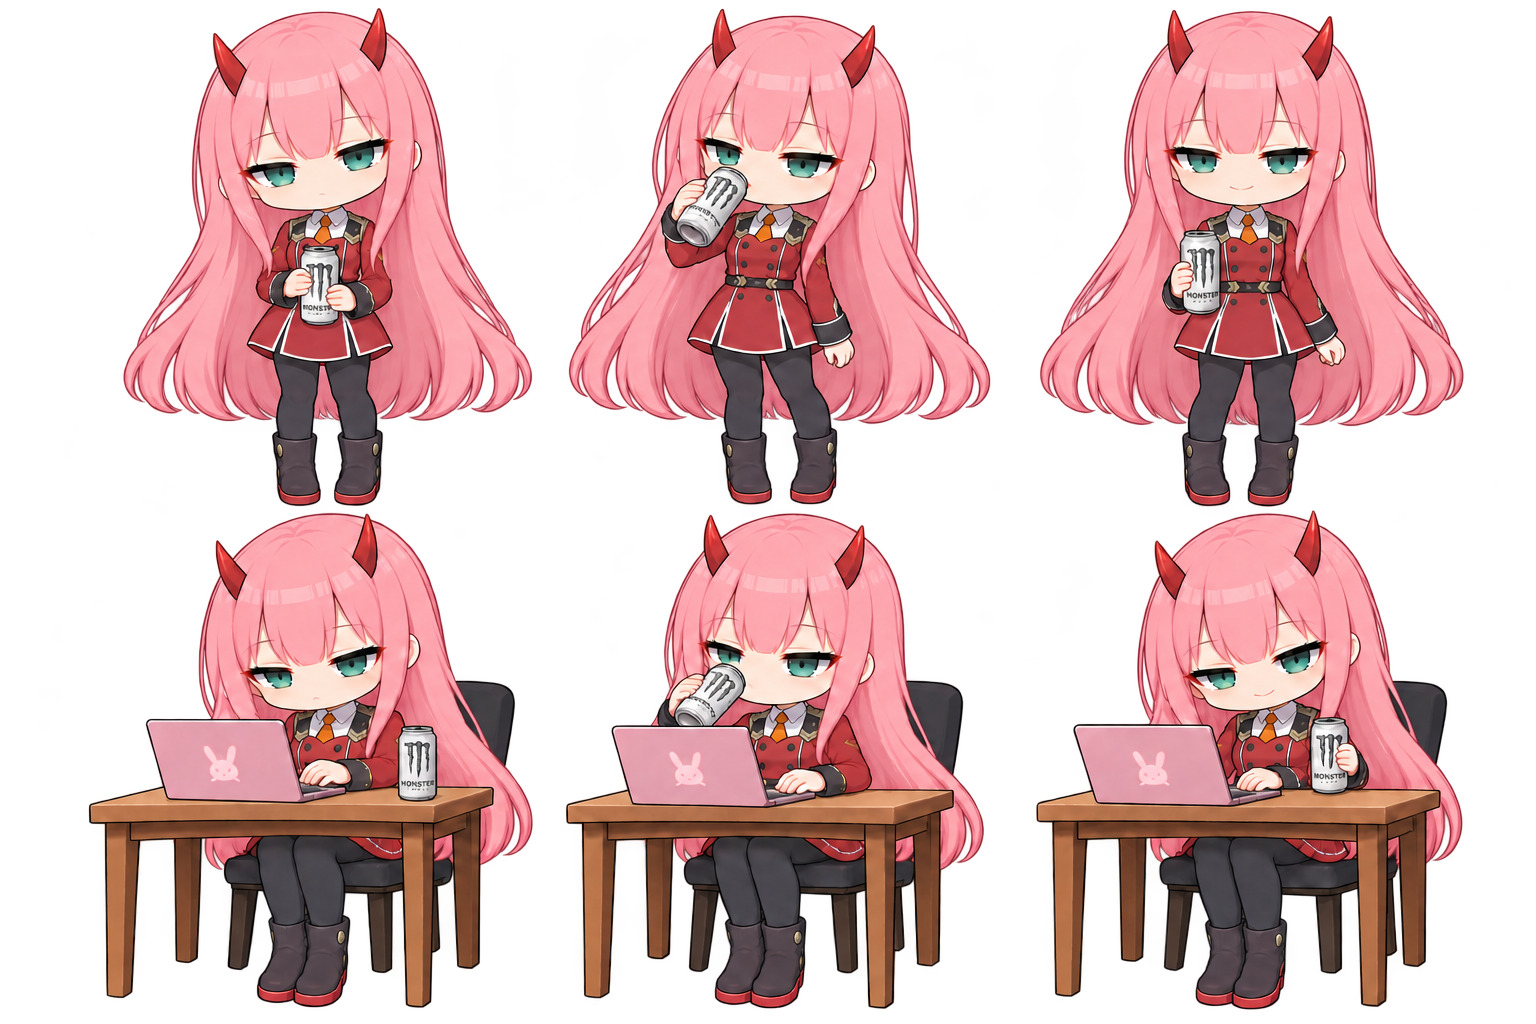
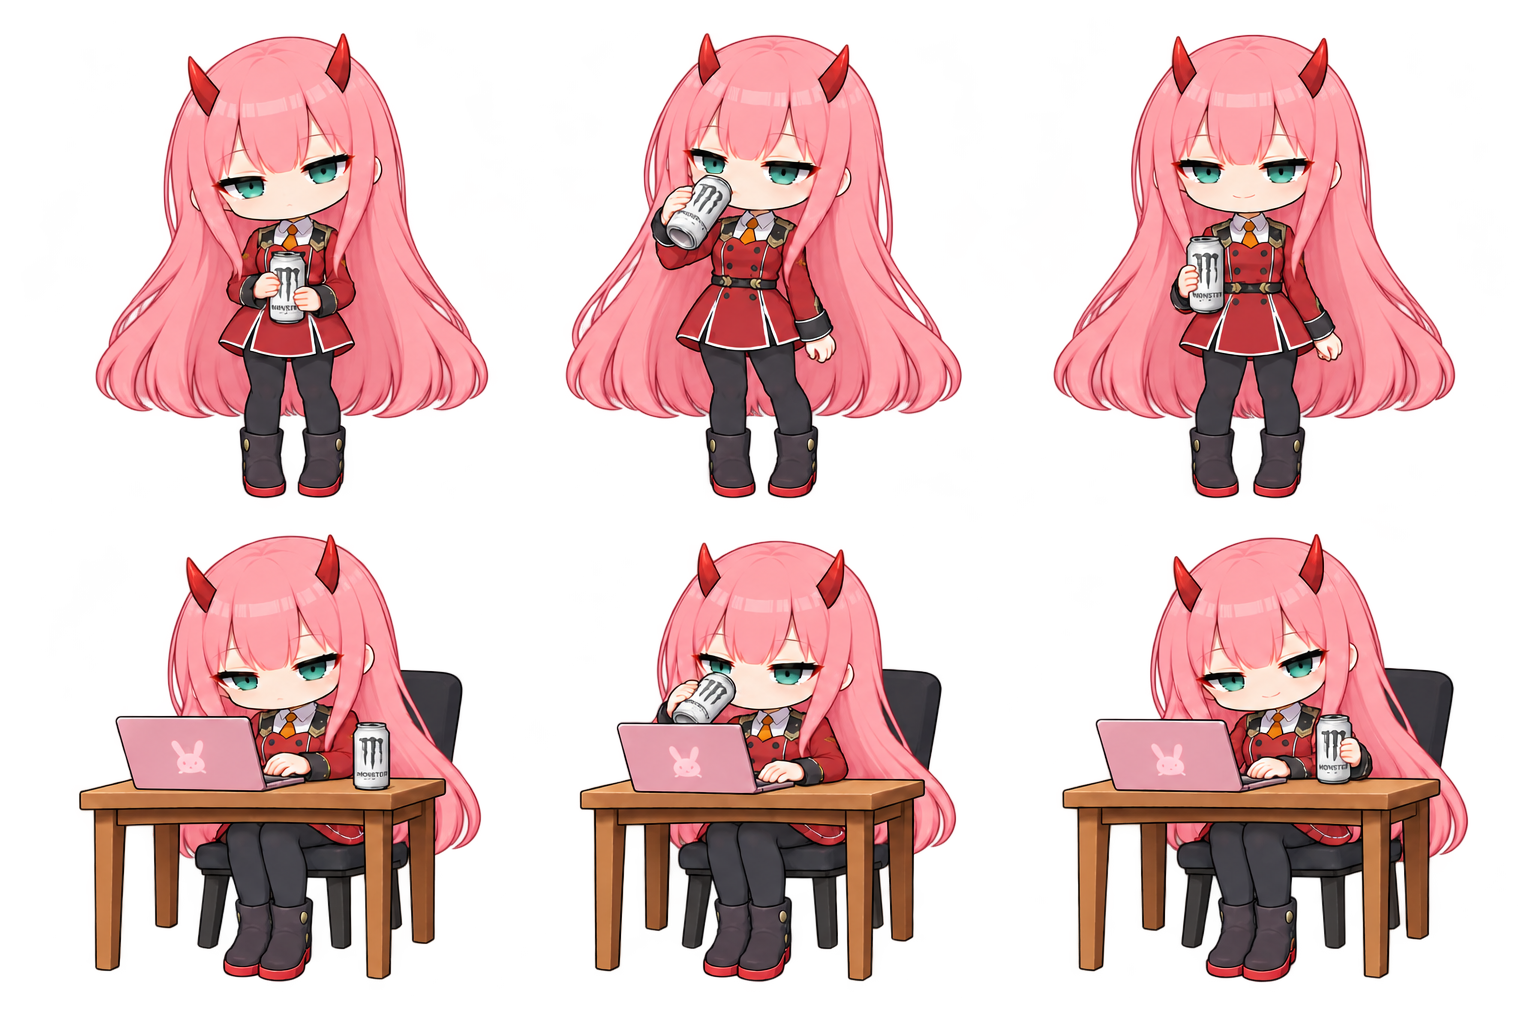
art: keep drink sprites inside their frame margins

diff --git a/assets/DRINK-ARTWORK.md b/assets/DRINK-ARTWORK.md
@@ -3,3 +3,5 @@
 `drink-break.png`: 1536×1024, three square columns, two rows, transparent alpha. Top row: standing ready, sip, lower. Bottom row: desk ready, sip, lower. User approved the concept before implementation. Existing idle and focus desk assets supplied character identity; user supplied white Monster Energy can reference.
 
 Generated using built-in imagegen (no API key). Final prompt: Background-extraction edit ONLY for approved 3-column 2-row sprite sheet. Keep all six character drawings, exact faces, poses, pink hair, red uniforms, white Monster cans and can logos, desk chair laptop, positions and scales unchanged. Remove every bit of pink/brown gradient glow or haze from ALL empty space outside the six silhouettes, including between table legs and chair and hair, and around standing characters. Empty background must be fully alpha=0. No glow, no halo, no shadows outside subject, no backdrop, no checkerboard. Preserve crisp clean antialiased edges and original colors. Do not rearrange or redraw characters. Production game sprites, not a concept board.
+
+Final layout repair via built-in imagegen: preserve the approved six drawings; reduce and center each sprite within its own square cell with transparent gutters so hair and furniture do not cross cell boundaries. Keep exact faces, poses, can, palette and linework, no backdrop or glow.
